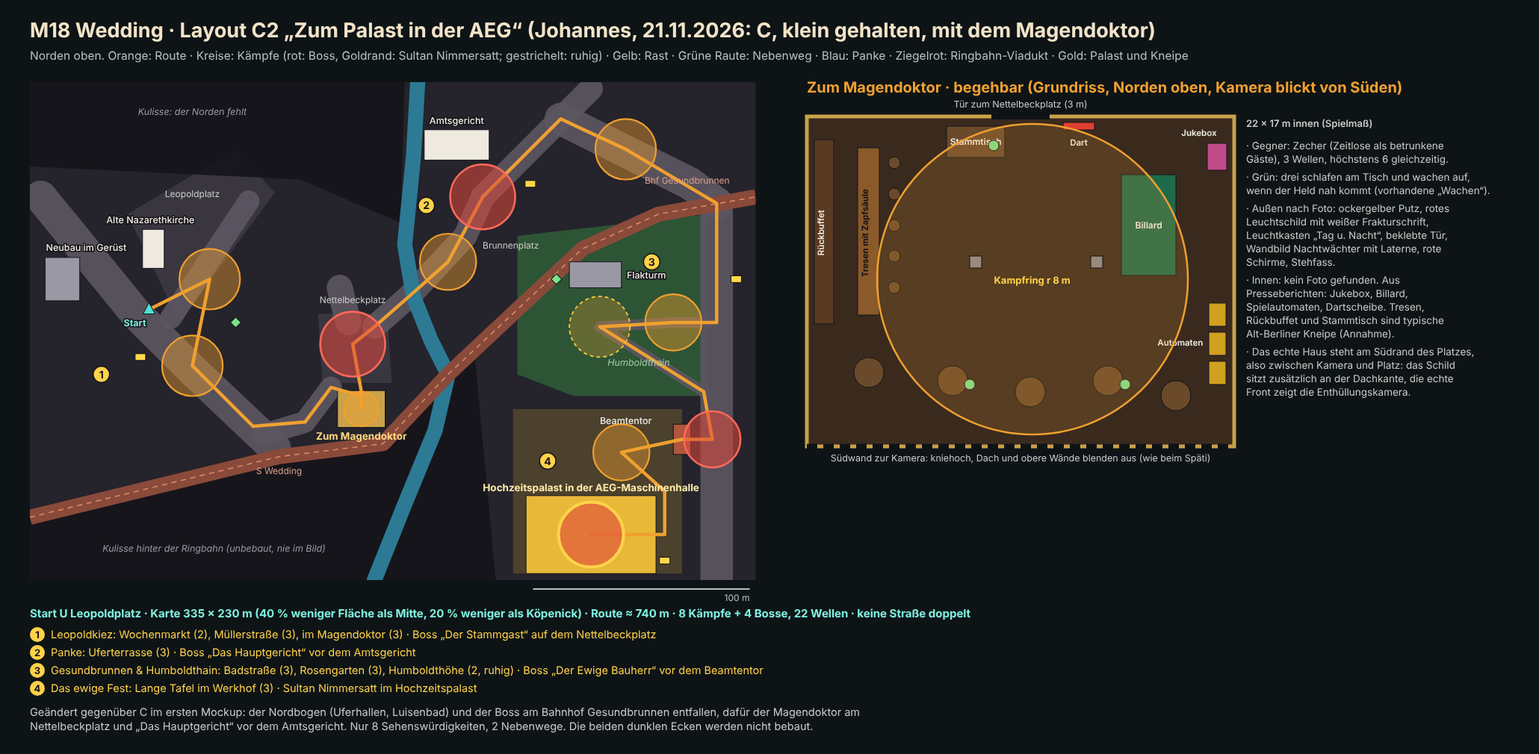
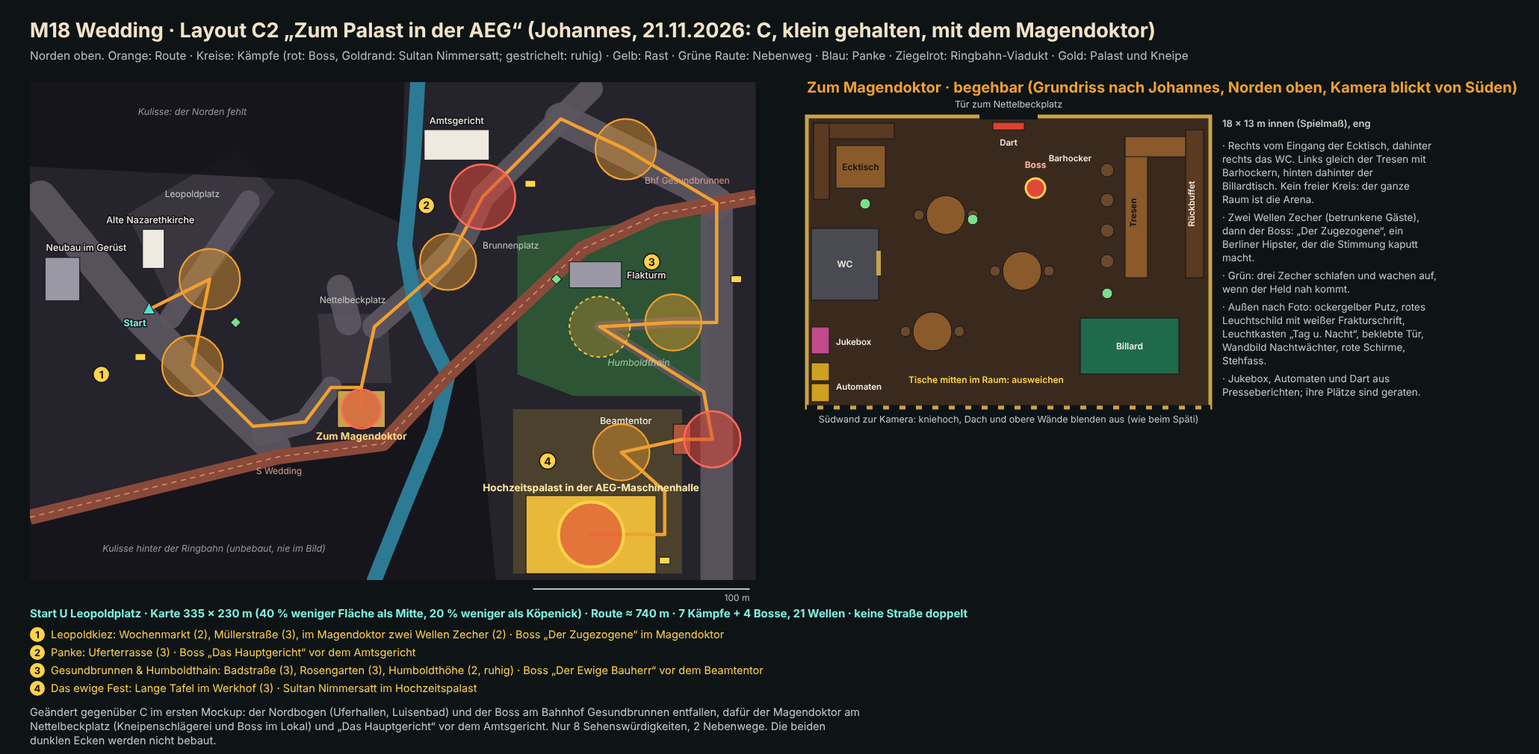
M18 Wedding: Magendoktor interior as Johannes described it, hipster boss in the pub
The pub layout follows Johannes' description (corner table and toilet on
the right, bar with stools on the left, pool table in the back, tables in
the middle as obstacles). The whole room is the arena. Zone 1 boss is Der
Zugezogene, a Berlin hipster, inside the pub; no fight on the square.
7 fights, 21 waves, 4 bosses.

Claude-Session: https://claude.ai/code/session_019G5dUPn24eaYW2i87L1q3z

diff --git a/docs/tasks/m18-wedding.md b/docs/tasks/m18-wedding.md
@@ -11,8 +11,8 @@ Status: step 0 done, steps 1 and 2 running as Opus sessions, step 3 starts when 
 | # | Session | Needs | Model | State |
 |---|---|---|---|---|
 | 0 | Concept, geography check, decisions, mockups, plan | | Fable high | done 2026-11-21 |
-| 1 | **Map.** Data `src/data/wedding.ts` from the anchors below and tests `src/data/wedding.test.ts` at scale 1 and 1.3 (as `charlottenburg.test.ts`, with the collider flood fill); map SVG `docs/maps/wedding.svg` shown in chat. `?map=wedding`: wiring (`options.ts`, `ui/maps.ts` with freed id 5, `main.ts` banner „Wedding · kommt bald“, bot `mapLevelOf`, `tools/balance.mjs --map=wedding`), `src/render/wedding-world.ts` with massing for the eight sights, the Panke, the plain brick Ringbahn, the hill, the roofless hall. The Magendoktor as a walk-in room with its fight (E2). The look: `WEDDING_SKY`, weather, lampion chains, awnings, carpets, the Lange Tafel, market stalls, scaffold nets and banners (E4 to E7). Stand-in bosses and enemies; district 5, tier 40 to 62. Smoke test. No title, victory or network link | 0 | Opus high | running |
-| 2 | **Enemies, bosses, loot.** A short spec `docs/tasks/m12e-wedding-enemies.md` (format of `m12d-charlottenburg-enemies.md`, half its length), then the build: Zecher skins, three board enemies, four bosses, Kodex, sounds from existing sets, the small loot selection. Input: map doc › Enemies. Update `docs/enemy-pipeline.md` and `docs/equipment-pipeline.md`. Does not edit `src/data/wedding.ts` unless step 1 is merged; otherwise the swaps go into the handover | 0 (parallel to 1) | Opus high | running |
+| 1 | **Map.** Data `src/data/wedding.ts` from the anchors below and tests `src/data/wedding.test.ts` at scale 1 and 1.3 (as `charlottenburg.test.ts`, with the collider flood fill); map SVG `docs/maps/wedding.svg` shown in chat. `?map=wedding`: wiring (`options.ts`, `ui/maps.ts` with freed id 5, `main.ts` banner „Wedding · kommt bald“, bot `mapLevelOf`, `tools/balance.mjs --map=wedding`), `src/render/wedding-world.ts` with massing for the eight sights, the Panke, the plain brick Ringbahn, the hill, the roofless hall. The Magendoktor as a walk-in room with its brawl and boss (E2). The look: `WEDDING_SKY`, weather, lampion chains, awnings, carpets, the Lange Tafel, market stalls, scaffold nets and banners (E4 to E7). Stand-in bosses and enemies; district 5, tier 40 to 62. Smoke test. No title, victory or network link | 0 | Opus high | running |
+| 2 | **Enemies, bosses, loot.** A short spec `docs/tasks/m12e-wedding-enemies.md` (format of `m12d-charlottenburg-enemies.md`, half its length), then the build: Zecher skins, three board enemies, four bosses (boss 1 is Der Zugezogene, the hipster in the pub), Kodex, sounds from existing sets, the small loot selection. Input: map doc › Enemies. Update `docs/enemy-pipeline.md` and `docs/equipment-pipeline.md`. Does not edit `src/data/wedding.ts` unless step 1 is merged; otherwise the swaps go into the handover | 0 (parallel to 1) | Opus high | running |
 | 3 | **Sights and finish.** The six new sights from photos (`docs/maps/landmarks.md`; look at the photos yourself), built worn: Alte Nazarethkirche, Zum Magendoktor (front and interior), Amtsgericht, Flakturm, Beamtentor, Hochzeitspalast in the Maschinenhalle; the Neubau im Gerüst from existing crane, scaffold and block parts; the U entrance is the existing kind. A light plan per sight (as `charlottenburg-lights.ts`), reveals. Swap the stand-ins for the step 2 roster and set the wave mix. Flow: U9 tunnel (line 4, `LineDef` with `name`, tier as the U2 west pattern), network stop `map: 'wedding'`, title and victory links, camp radio line. Rows for Codex in `docs/asset-pipeline.md` (cloth atlas, sign atlas), screenshots (street, fight, each sight), rows in `docs/tasks/pt-hardware-checks.md`, `docs/status.md`, the queue | 1 merged, 2 merged | Opus high | open |
 
 ## Anchors (layout C2, scale 1, meters, +X east, +Z south)
@@ -21,12 +21,12 @@ Bounds x −55 … 280, z −105 … 125 (335 × 230). Start (0, 0) at the U Leo
 
 | Zone | Fights (id, x, z, waves) | Boss |
 |---|---|---|
-| 1 Leopoldkiez | wochenmarkt (28, −14, 2), muellerstrasse (20, 26, 3), magendoktor (98, 46, 3; inside, r 8, E2) | nettelbeckplatz (94, 16): Der Stammgast |
+| 1 Leopoldkiez | wochenmarkt (28, −14, 2), muellerstrasse (20, 26, 3), magendoktor (98, 46, 2; inside, E2) | in the same room, after the two waves: Der Zugezogene |
 | 2 Panke | uferterrasse (138, −22, 3) | brunnenplatz (154, −52): Das Hauptgericht |
 | 3 Gesundbrunnen & Humboldthain | badstrasse (220, −74, 3), rosengarten (242, 6, 3), humboldthoehe (208, 8, 2; calm: 0.7 count, no elites, flyers) | beamtentor (260, 60): Der Ewige Bauherr |
 | 4 Das ewige Fest | langetafel (218, 66, 3) | hochzeitspalast (204, 104): Sultan Nimmersatt |
 
-8 fights, 22 waves (8, 3, 8, 3), 4 bosses. Route order as listed. Circles r 13 to 15 except the Magendoktor. Every circle needs 80 % open ground (test), so: the Wochenmarkt keeps its stalls on the rim and at most four inside as cover; the Müllerstraße fight gets a widened pavement; the Uferterrasse is a paved quay between the Pankstraße and the stream, no water inside the circle; the Badstraße fight a small square; the Rosengarten a round lawn; the Beamtentor a forecourt set back from the Brunnenstraße; the Lange Tafel has its tables on the rim and two rows inside; the hall is at least 56 × 30 m clear.
+7 fights, 21 waves (7, 3, 8, 3), 4 bosses. Route order as listed. Circles r 13 to 15 except the Magendoktor. Every circle except the pub needs 80 % open ground (test), so: the Wochenmarkt keeps its stalls on the rim and at most four inside as cover; the Müllerstraße fight gets a widened pavement; the Uferterrasse is a paved quay between the Pankstraße and the stream, no water inside the circle; the Badstraße fight a small square; the Rosengarten a round lawn; the Beamtentor a forecourt set back from the Brunnenstraße; the Lange Tafel has its tables on the rim and two rows inside; the hall is at least 56 × 30 m clear.
 
 | Thing | Where |
 |---|---|
@@ -34,8 +34,8 @@ Bounds x −55 … 280, z −105 … 125 (335 × 230). Start (0, 0) at the U Leo
 | Ringbahn | Plain brick viaduct, solid runs: (−55, 96), (60, 68), (108, 62), (138, 30), (170, 0), (200, −28), (235, −44), (280, −52). Arches: Brunnenstraße (262, −49; route), the Panke (138, 30; water only), Müllerstraße at S Wedding (60, 68; closed by a barricade). Station signs „S Wedding“ and „Gesundbrunnen“ on the brick, no station building |
 | Unbuilt corners | South of the Ringbahn and west of x 160; north of z −60 and west of x 115. No lots, no props, dark ground, `noSpawn`; closed off by the viaduct, the Blockrand north of the Leopoldplatz and the Panke. Never in view |
 | Leopoldplatz | Paved square (−10, −44), (40, −74), (58, −54), (14, 6); a closed Blockrand row along its north side |
-| Nettelbeckplatz | Paved square about (78 … 112, 2 … 34); the Magendoktor closes its south side |
-| Zum Magendoktor | Footprint centre (98, 46), about 23 × 18 outside, 22 × 17 inside; front to the north with a 3 m door at (98, 37); ground floor only, flat roof (E2) |
+| Nettelbeckplatz | Paved square about (78 … 112, 2 … 34); the Magendoktor closes its south side. No fight here: parasols, a barrel table, lampions |
+| Zum Magendoktor | Footprint centre (98, 46), about 19 × 14 outside, 18 × 13 inside; front to the north with a door at (98, 39); ground floor only, flat roof (E2) |
 | Humboldthain | Park south of the Ringbahn: (170, −34), (258, −44), (258, 40), (196, 40), (170, 30); fenced, gates east (258, 6) and south-east (256, 38). Humboldthöhe: soft hill 7 m, centre (208, 8), radius about 30, flat top for the fight. Paths: east gate → Rosengarten → summit → south-east gate |
 | AEG grounds | Walled yard (168 … 246, 46 … 122). Beamtentor (246, 60) in its east wall, walk-through from the Brunnenstraße forecourt. Maschinenhalle (204, 104), about 60 × 36, roofless (E3), door gap in its east wall at (234, 104). Extent is a placeholder |
 | Streets | Müllerstraße (Hauptstraße, no tram): (−50, −52) construction fence, (−6, 2), (20, 28), (58, 64) barricade. Schulstraße (side): (10, 4), (46, −50) barricade. Lindower Straße (side; route): (52, 58), (72, 52), (84, 36). Reinickendorfer Straße (stub): (88, −10) barricade, (92, 6). Pankstraße (side; route): (104, 8), (120, −6), (146, −34), (154, −52), (190, −88), (204, −102) barricade. Badstraße (Hauptstraße; route): (190, −88), (222, −72), (250, −58), (262, −49). Brunnenstraße (Hauptstraße; route in two stretches, arch to east gate and park corner to Beamtentor): (262, −49), (262, 6), (262, 60), (262, 125) barricade |
@@ -50,7 +50,7 @@ Bounds x −55 … 280, z −105 … 125 (335 × 230). Start (0, 0) at the U Leo
 | # | Topic | Decision |
 |---|---|---|
 | E1 | Ringbahn and Panke | The viaduct is `MapDef.viaducts`, drawn as Charlottenburg's plain brick (`buildStadtbahn(…, plain)`, `buildArches`). Where the Panke passes, two runs end at the banks and a girder span is drawn over the water; if a run cannot end at water, the Panke passes through an arch like a street. The Panke is an ordinary river polyline; widen it to 8 or 9 m if the river or bridge code needs it |
-| E2 | Zum Magendoktor | A walk-in room on the Späti pattern, one source for colliders and render: `src/data/kneipe.ts` beside `spati.ts` (walls, door, counter, back shelf, billiard table, jukebox, slot machines, Stammtisch, round tables; furniture low toward the camera, tall pieces on the side walls). Roof and upper walls in their own group, hidden while the hero is inside, with the Späti's `follow` hook; the south wall stays knee high. The fight is an ordinary encounter with r 8 centred in the room: an exception to the 13 m rule, with `maxAlive` 6 and 0.6 of the usual count; spawns on the rim are inside the room. Three sleeping guards at tables. If r 8 breaks a sim assumption (spawn ring, rollback, ring render), use r 10 and a room 24 × 21. The pub is no rest stop |
+| E2 | Zum Magendoktor | A walk-in room on the Späti pattern, one source for colliders and render: `src/data/kneipe.ts` beside `spati.ts`. Layout as Johannes described it (map doc, floor plan in `m18-wedding-c2.svg`): seen from the door, the corner table with its bench on the right, the toilet behind it on the right (a closed door, a solid box), the bar with four high stools and the back shelf on the left, the pool table in the back behind the bar, three small tables in the middle as obstacles; jukebox, slot machines and dart board on the walls. Lanes between pieces at least 1.8 m; every free cell connects to the door (flood fill test). Roof and upper walls in their own group, hidden while the hero is inside, with the Späti's `follow` hook; the south wall stays knee high. The fight: the whole room is the arena, so the 80 % rule and the 13 m rule do not apply here. One encounter centred in the room with a radius that covers it (about 11), walls keep everyone in; spawns only on free cells inside the room or through the door (test); `maxAlive` 6, 0.6 of the usual count; two waves of Zecher, then the boss as the third wave with two adds, which counts as the zone 1 boss (full heal). If one encounter cannot hold normal waves and a boss, use two encounters at the same spot, the second starting when the first is won. Three sleeping guards at tables. Hide the part of the ring outside the walls if that is a small change. The pub is no rest stop |
 | E3 | Maschinenhalle | As the KaDeWe Lichthof: `OPEN_PARTS` walls with door gaps, low wall on the camera side, tall wall on the north side with the palace front and the throne. No interior renderer, no new cutaway |
 | E4 | Lampions | No light per lampion. Paper bodies and halo cards go into the chunk's glow batch, the cord is a thin strip; placed in data along the route streets (every 20 to 30 m, denser at the Lange Tafel and the market), so sim and render agree. They count for light coverage as string lights do. At most 16 triangles each, 60 per chunk. Colours: the string-light colour, every sixth the existing teal |
 | E5 | Colours and materials | No new glow colour. At most two new materials (cloth atlas, sign atlas), code-painted placeholders. Awnings and carpets reuse the Charlottenburg canopy and flat decal builders with new colours; scaffold nets use the scaffold and tarp of `landmark-wear.ts` with an emerald tint |
@@ -62,10 +62,10 @@ Bounds x −55 … 280, z −105 … 125 (335 × 230). Start (0, 0) at the U Leo
 
 ## Invariants and tests (`src/data/wedding.test.ts`, scale 1 and 1.3)
 
-- The guideline list: wave and boss counts (8, 3, 8, 3 and 4 bosses), rising tier, start, zone entries and fight centres free, circles 80 % open, the bridge walkable, water blocks, lots off streets and water, more lots at 1.3, light coverage and lamp rules, every 20 m of route street has something, closed edges by flood fill, streets end in a barricade, one rest stop per zone.
+- The guideline list: wave and boss counts (7, 3, 8, 3 and 4 bosses), rising tier, start, zone entries and fight centres free, circles 80 % open, the bridge walkable, water blocks, lots off streets and water, more lots at 1.3, light coverage and lamp rules, every 20 m of route street has something, closed edges by flood fill, streets end in a barricade, one rest stop per zone.
 - Octants of the geography table from the start; the Magendoktor south of the Nettelbeckplatz and north of the Ringbahn.
 - The Panke is crossed only on the bridge; the Ringbahn only through the Brunnenstraße arch; the park only through its two gates; the AEG yard only through the Beamtentor.
-- The Magendoktor: the door walks in, walls hold, the ring lies inside the room, no enemy spawns outside it.
+- The Magendoktor: the door walks in, walls and furniture hold, every free cell connects to the door, lanes are at least 1.8 m, no enemy spawns in a wall or a piece of furniture, the boss comes after the two waves.
 - Nothing is placed or reached in the two unbuilt corners.
 - Side passages, guards and hidden blessings stand in no blocking landmark footprint.
 - A scripted run reaches victory; the smoke test loads `?map=wedding&profile=Leistung&seed=7&autostart`.
@@ -79,6 +79,6 @@ Banner „Wedding · kommt bald“; district card „Gold, Tee und Baklava. Sult
 - Found in 2D: the final board (already here as `docs/style/wedding.png`), three exploration boards with prompts, the story section and the no-BVG rule. No map, enemies, items or backlog item for Wedding. Reused: board, story, tone rules, the ported systems.
 - Geography: about 80 places looked up on Nominatim, 14 on the map, all octants match. Streets, the Panke line and the AEG extent are placeholders; the facts listed as memory in the map doc are unverified. Overpass was blocked.
 - Johannes picked layout C (trimmed here to C2), look A and the chain place after Charlottenburg; he added the Magendoktor and the small scope (map doc W1 to W9).
-- Magendoktor: one press photo of the front was looked at; no interior photo was found (Wikimedia 429). Step 3 tries again and builds the interior from what it finds; the assumed pieces are marked in the map doc.
+- Magendoktor: one press photo of the front was looked at; no interior photo was found (Wikimedia 429). The interior layout is Johannes' own description (2026-11-21); only the places of jukebox, slot machines and dart board are guessed. The boss there is a hipster, Der Zugezogene (Johannes: no Stammgast).
 - Charlottenburg step 8 is merged (`LineDef.name`, `tunnelName`, the U2 west flow), so step 3 can build the U9 the same way.
 - Open for other plans: the finale's last line now starts in Wedding; `lines.ts` still says Charlottenburg ends the network.

diff --git a/docs/maps/wedding.md b/docs/maps/wedding.md
@@ -8,11 +8,11 @@ Layout **C2 „Zum Palast in der AEG“** and look **A „Lampionnacht“** (Joh
 
 | # | Decision | By |
 |---|---|---|
-| W1 | Layout C, trimmed to C2: start U Leopoldplatz → Wochenmarkt on the square → Müllerstraße → Lindower Straße along the Ringbahn → into the Magendoktor → Nettelbeckplatz → Pankstraße over the Panke → Uferterrasse → Brunnenplatz and Amtsgericht → Badstraße → through the Ringbahn arch on the Brunnenstraße → Rosengarten → Humboldthöhe → Beamtentor → the Lange Tafel in the AEG yard → the Hochzeitspalast in the Maschinenhalle. No street twice. The north loop of the first C (Uferhallen, Luisenbad) and the boss at Bahnhof Gesundbrunnen are gone | Johannes, 2026-11-21: C, „not too big“ |
+| W1 | Layout C, trimmed to C2: start U Leopoldplatz → Wochenmarkt on the square → Müllerstraße → Lindower Straße along the Ringbahn → Nettelbeckplatz → into the Magendoktor → Pankstraße over the Panke → Uferterrasse → Brunnenplatz and Amtsgericht → Badstraße → through the Ringbahn arch on the Brunnenstraße → Rosengarten → Humboldthöhe → Beamtentor → the Lange Tafel in the AEG yard → the Hochzeitspalast in the Maschinenhalle. No street twice. The north loop of the first C (Uferhallen, Luisenbad) and the boss at Bahnhof Gesundbrunnen are gone | Johannes, 2026-11-21: C, „not too big“ |
 | W2 | Look A „Lampionnacht“: one night sky for the whole map, deep emerald-teal; all gold comes from lamps and cloth below 5 m (lampion and wish-lamp chains across the streets, chandeliers behind hall windows, brass, brocade), ruby awnings and carpets, green scaffold nets on some tall fronts. Dry | Johannes, 2026-11-21 |
 | W3 | Chain: Wedding comes after Charlottenburg as district index 5 (appended, nothing built moves). Line 4 is the U9 from S+U Zoologischer Garten to U Leopoldplatz, ghost station Westhafen. The Fernsehturm finale moves to index 6 | Johannes, 2026-11-21 („go with your recommendation“) |
 | W4 | Tier 40 to 62, provisional: +8 per district as before (Charlottenburg 32 to 54). Not calibrated before the M14/B2 decision | Claude |
-| W5 | **Zum Magendoktor** is in the district and can be entered: the old Berlin pub at the Nettelbeckplatz (Reinickendorfer Straße 111, verified on OpenStreetMap). A fight inside against drunken guests. Built on the walk-in Späti (roof and upper walls hide while the hero is inside) | Johannes, 2026-11-21 |
+| W5 | **Zum Magendoktor** is in the district and can be entered: the old Berlin pub at the Nettelbeckplatz (Reinickendorfer Straße 111, verified on OpenStreetMap). A brawl inside against drunken guests, then the zone boss in the pub: a modern Berlin hipster who ruins the mood. The room is tight, with tables in the way; no free ring in the middle. Built on the walk-in Späti (roof and upper walls hide while the hero is inside) | Johannes, 2026-11-21 |
 | W6 | Small scope: recycle what exists, it does not have to match the other maps. 8 sights, 2 side passages, no new lot types, existing street profiles and props. A small selection of new items; the other drops come from the pools of the earlier maps. Still decent | Johannes, 2026-11-21 |
 | W7 | The final arena is the Hochzeitspalast inside the roofless AEG Maschinenhalle, reached through the Beamtentor. The Lampenpalast in the Osram-Höfe (layout A) is dropped | Follows from W1 |
 | W8 | Taste rules: no fight at a church door and no religious sign on any enemy, boss or the palace (it is Festsaal kitsch: chandeliers, gilded stucco, velvet); no mosque is placed; no Zeitlose in the dress of the neighbours; no BVG logo, yellow livery or transit costume (2D rule of 2026-11-13). Left out: silent green (a former crematorium), the Plötzensee memorial, the Anti-Kriegs-Museum, the Wall memorial | Claude, from the 2D rules |
@@ -26,12 +26,12 @@ For comparison: Köpenick 318 × 304 m and about 840 m; Mitte 330 × 387 m and a
 
 | Zone | Fights (waves) | Boss | Sights |
 |---|---|---|---|
-| 1 Leopoldkiez | Wochenmarkt on the Leopoldplatz (2), Müllerstraße (3), inside the Magendoktor (3) | Der Stammgast on the Nettelbeckplatz | U Leopoldplatz, Alte Nazarethkirche (backdrop), the Neubau im Gerüst with crane and banner (invented), Zum Magendoktor |
+| 1 Leopoldkiez | Wochenmarkt on the Leopoldplatz (2), Müllerstraße (3), inside the Magendoktor (2 waves of Zecher) | Der Zugezogene, inside the Magendoktor | U Leopoldplatz, Alte Nazarethkirche (backdrop), the Neubau im Gerüst with crane and banner (invented), Zum Magendoktor |
 | 2 Panke | Uferterrasse (3) | Das Hauptgericht on the Brunnenplatz, in front of the Amtsgericht | Amtsgericht Wedding, the Panke |
 | 3 Gesundbrunnen & Humboldthain | Badstraße (3), Rosengarten (3), Humboldthöhe (2, calm, on the summit) | Der Ewige Bauherr in front of the Beamtentor | Flakturm, Beamtentor |
 | 4 Das ewige Fest | Lange Tafel in the AEG yard (3) | Sultan Nimmersatt in the Hochzeitspalast | Hochzeitspalast in the Maschinenhalle (invented inside a real hall) |
 
-8 fights, 22 waves, 4 bosses, 8 sights. Rest stops: Späti am Leo, Baklava & Döner (Pankstraße), Kiosk am Rosengarten, Teestube im Werkhof. Side passages: a Hinterhof off the Müllerstraße (hidden blessing), the bunker door beside the Flakturm (cache). One hill: the Humboldthöhe, 7 m.
+7 fights, 21 waves, 4 bosses, 8 sights. Rest stops: Späti am Leo, Baklava & Döner (Pankstraße), Kiosk am Rosengarten, Teestube im Werkhof. Side passages: a Hinterhof off the Müllerstraße (hidden blessing), the bunker door beside the Flakturm (cache). One hill: the Humboldthöhe, 7 m.
 
 ## Zum Magendoktor
 
@@ -39,9 +39,9 @@ For comparison: Köpenick 318 × 304 m and about 840 m; Mitte 330 × 387 m and a
 |---|---|---|
 | Place | Reinickendorfer Straße 111, at the south end of the Nettelbeckplatz, beside S Wedding and the Ringbahn; open day and night | OpenStreetMap (658 m east, 275 m south of U Leopoldplatz); press |
 | Front | Ochre plaster ground floor of an Altbau; red lit sign with white Fraktur lettering „Zum Magendoktor“; a lit box sign „Tag u. Nacht“ with a cartoon figure; a door covered in stickers and tags; a dark plinth with graffiti; a wall painting of an old Berlin night watchman with a lantern; closed red parasols and a barrel as a standing table in front; a wrought-iron balcony above; a brick neighbour with a club neon | One press photo (Tagesspiegel, 2023), looked at on 2026-11-21. No brand names on the parasols |
-| Inside | Jukebox, billiard table, slot machines, dart board | Press text (Berliner Kurier, Tagesspiegel). **No interior photo was found**: Wikimedia answered 429 and the press pages show none |
-| Inside, assumed | A long wooden counter with a tap column and a back shelf, a Stammtisch with its sign, round tables, wood panelling, framed prints | Typical old Berlin pub; replace with what a photo shows. Johannes can send one |
-| In the game | Interior about 22 × 17 m (game size), door 3 m in the north front toward the square. Fight ring r 8 in the room, 3 waves of Zecher, at most 6 alive, three more asleep at tables (existing guards). The south wall toward the camera is knee high; roof and upper walls hide while the hero is inside | Task file E2 |
+| Inside, layout | Coming in: on the right a corner table, behind it on the right the toilet; on the left, right at the door, the bar with high bar stools; in the back behind the bar the pool table. Not much space; a few tables stand in the middle of the room | Johannes, 2026-11-21 (he knows the place) |
+| Inside, pieces | Jukebox, slot machines, dart board | Press text (Berliner Kurier, Tagesspiegel); their places are guessed. **No interior photo was found**: Wikimedia answered 429 and the press pages show none |
+| In the game | Interior about 18 × 13 m (game size), door in the north front toward the square. The whole room is the arena: no free ring, the tables in the middle are obstacles to dodge around. Two waves of Zecher, at most 6 alive, three more asleep at tables (existing guards), then the boss. The south wall toward the camera is knee high; roof and upper walls hide while the hero is inside. The toilet is a closed door | Task file E2; mockup `m18-wedding-c2.svg` |
 | Camera | The real house stands on the south side of the square, so between camera and square: the sign also sits on the roof edge, readable from the south; the reveal shot shows the real front | Guideline › Blockrand |
 
 ## Geography check (OpenStreetMap Nominatim, 2026-11-21)
@@ -54,7 +54,7 @@ Origin U Leopoldplatz (52.5465 N, 13.3596 E). Real offsets in m east, north, wit
 | Rathaus Wedding | −245, 101 | W | −40, 14 | W ✓ | the invented Neubau stands here; 3° from the octant border |
 | S+U Wedding | 346, −361 | SE | 60, −68 | SE ✓ | where the Müllerstraße meets the Ringbahn; a sign on the viaduct |
 | Lindower Straße | 593, −280 | SE | 72, −52 | SE ✓ | runs along the Ringbahn to the Magendoktor ✓ |
-| Nettelbeckplatz | 660, −202 | E | 94, −16 | E ✓ | OSM now names the square Martha-Ndumbe-Platz |
+| Nettelbeckplatz | 660, −202 | E | 94, −16 | E ✓ | OSM now names the square Martha-Ndumbe-Platz; no fight on it |
 | Zum Magendoktor | 658, −275 | SE | 98, −46 | SE ✓ | south end of the square ✓; real 0.5° and map 3° from the border, move only south |
 | Amtsgericht Wedding | 1077, 482 | NE | 142, 76 | NE ✓ | north-west of the Brunnenplatz ✓, so its front stands behind the boss fight; 6° from the border |
 | Brunnenplatz | 1152, 409 | E | 154, 52 | E ✓ | 4° from the border |
@@ -85,7 +85,7 @@ Compression: about 0.12 east to west, 0.15 to 0.3 north to south.
 | Tee-Ifrit | Tea-vapour spirit rising from a samovar | Caster that keeps its distance (Speier or Heuler brain): lobs tea glasses in an arc. Kill first |
 | Baklava-Brocken | Filo and pistachio golem, honey fists, serving-tray shield | Brute with the Schildträger front |
 | Teppichschlinger | Airborne carpet, woven face, tassel arms | Flyer (Krähe brain) with a dive along a marked line (pouncer) |
-| Boss 1, Nettelbeckplatz | | **Der Stammgast**: the regular who has sat in the Magendoktor since the clock broke. A heavy brawler on an existing boss brain (charge and summon as the Feldwebel or Türsteher); calls Zecher |
+| Boss 1, inside the Magendoktor | Not on the board (Johannes, 2026-11-21) | **Der Zugezogene**: a modern Berlin hipster who is turning the pub into something new and ruins the mood (beanie, moustache, round glasses, tote bag, oat-milk coffee). Human base, an existing boss brain: a short charge on an e-scooter along a marked line, thrown coffee cups as a volley; two Zecher as adds. He carries the „kommt bald“ joke into the pub. Working name; „Der Hipster“ if Johannes prefers |
 | Boss 2, Brunnenplatz | | **Das Hauptgericht** (the pun with the Amtsgericht behind it): the Baklava-Brocken model at boss size with a turning spit as an arm. Spin sweep and slams from existing blocks |
 | Boss 3, Beamtentor | Historical board B; story: Der Ewige Bauherr | **Der Ewige Bauherr**: an existing big body (Koloss or mech) in hi-vis and scaffold. Slow and strong, calls a building crew of Zeitlose |
 | Sultan Nimmersatt, Hochzeitspalast | Der Ewige Gastgeber: gold-vessel sovereign on a carpet throne, tea-urn belly, spoon sceptre | The one new boss body (human base with crown, tray shoulders, urn belly, carpet). An existing final-boss brain with its phases named as courses (Vorspeise, Hauptgang, Nachtisch); calls Tee-Ifrite and carpets |
